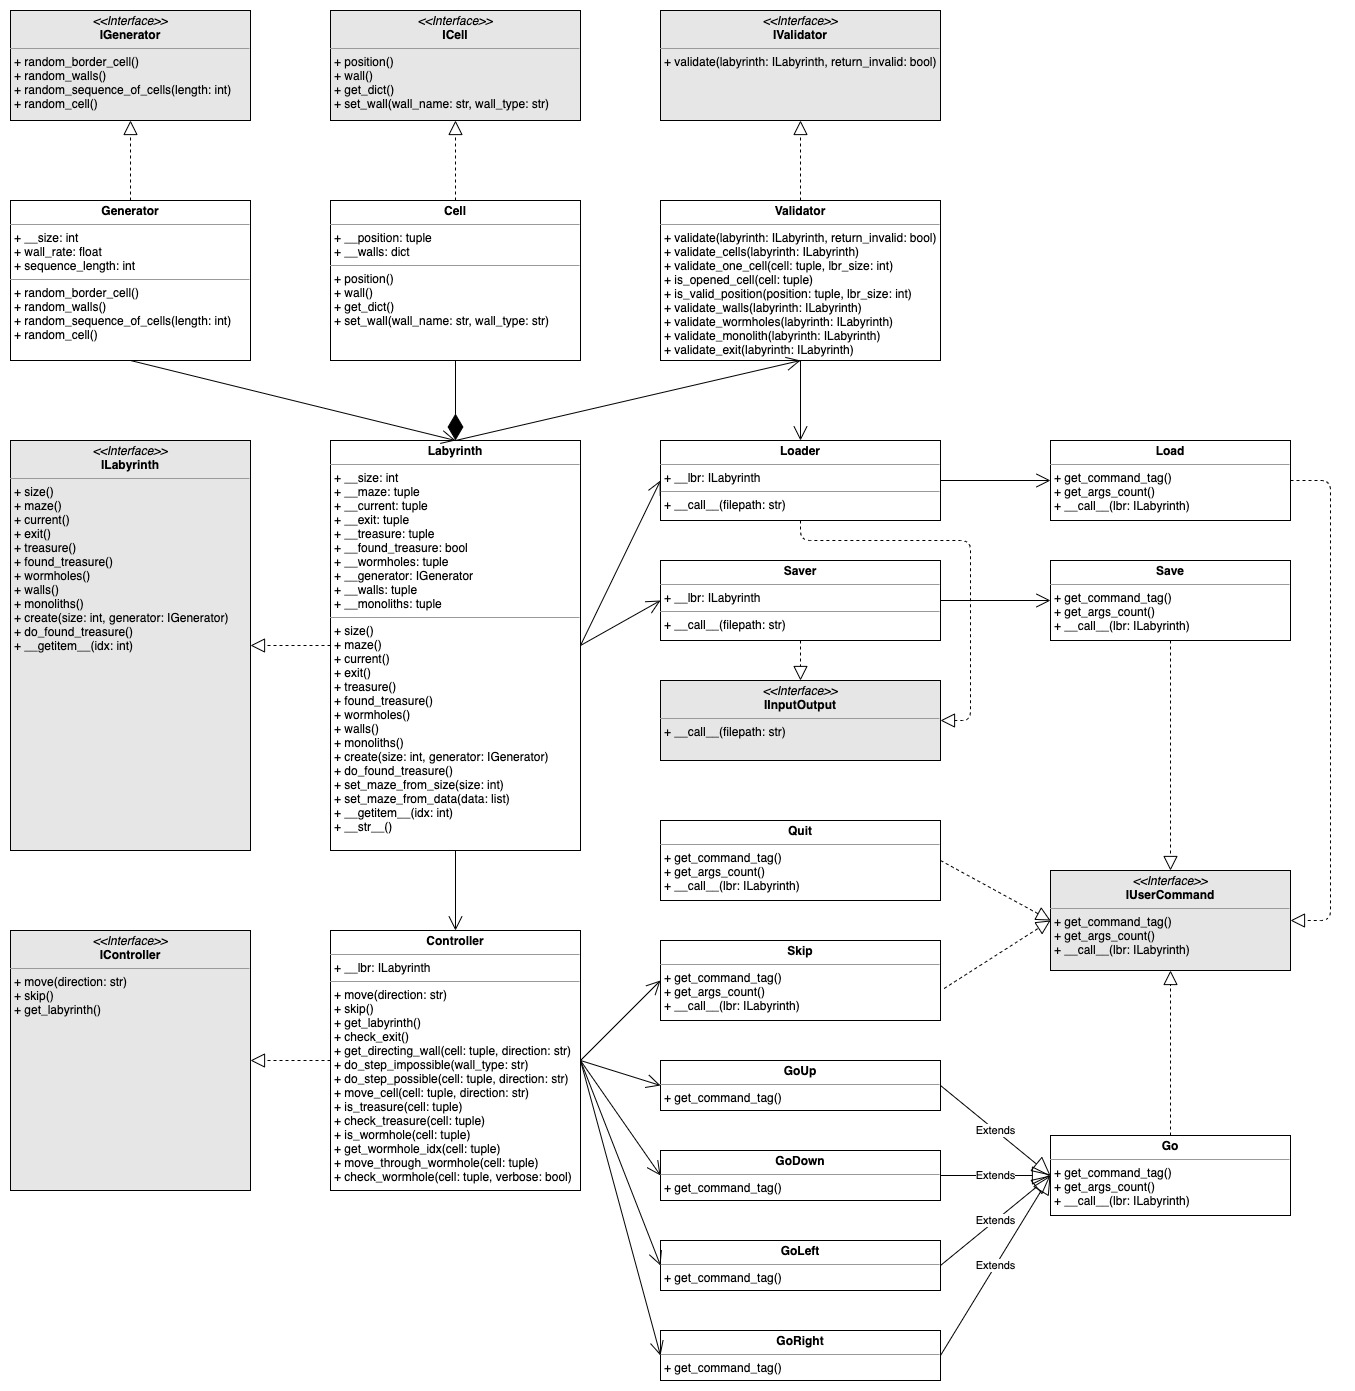
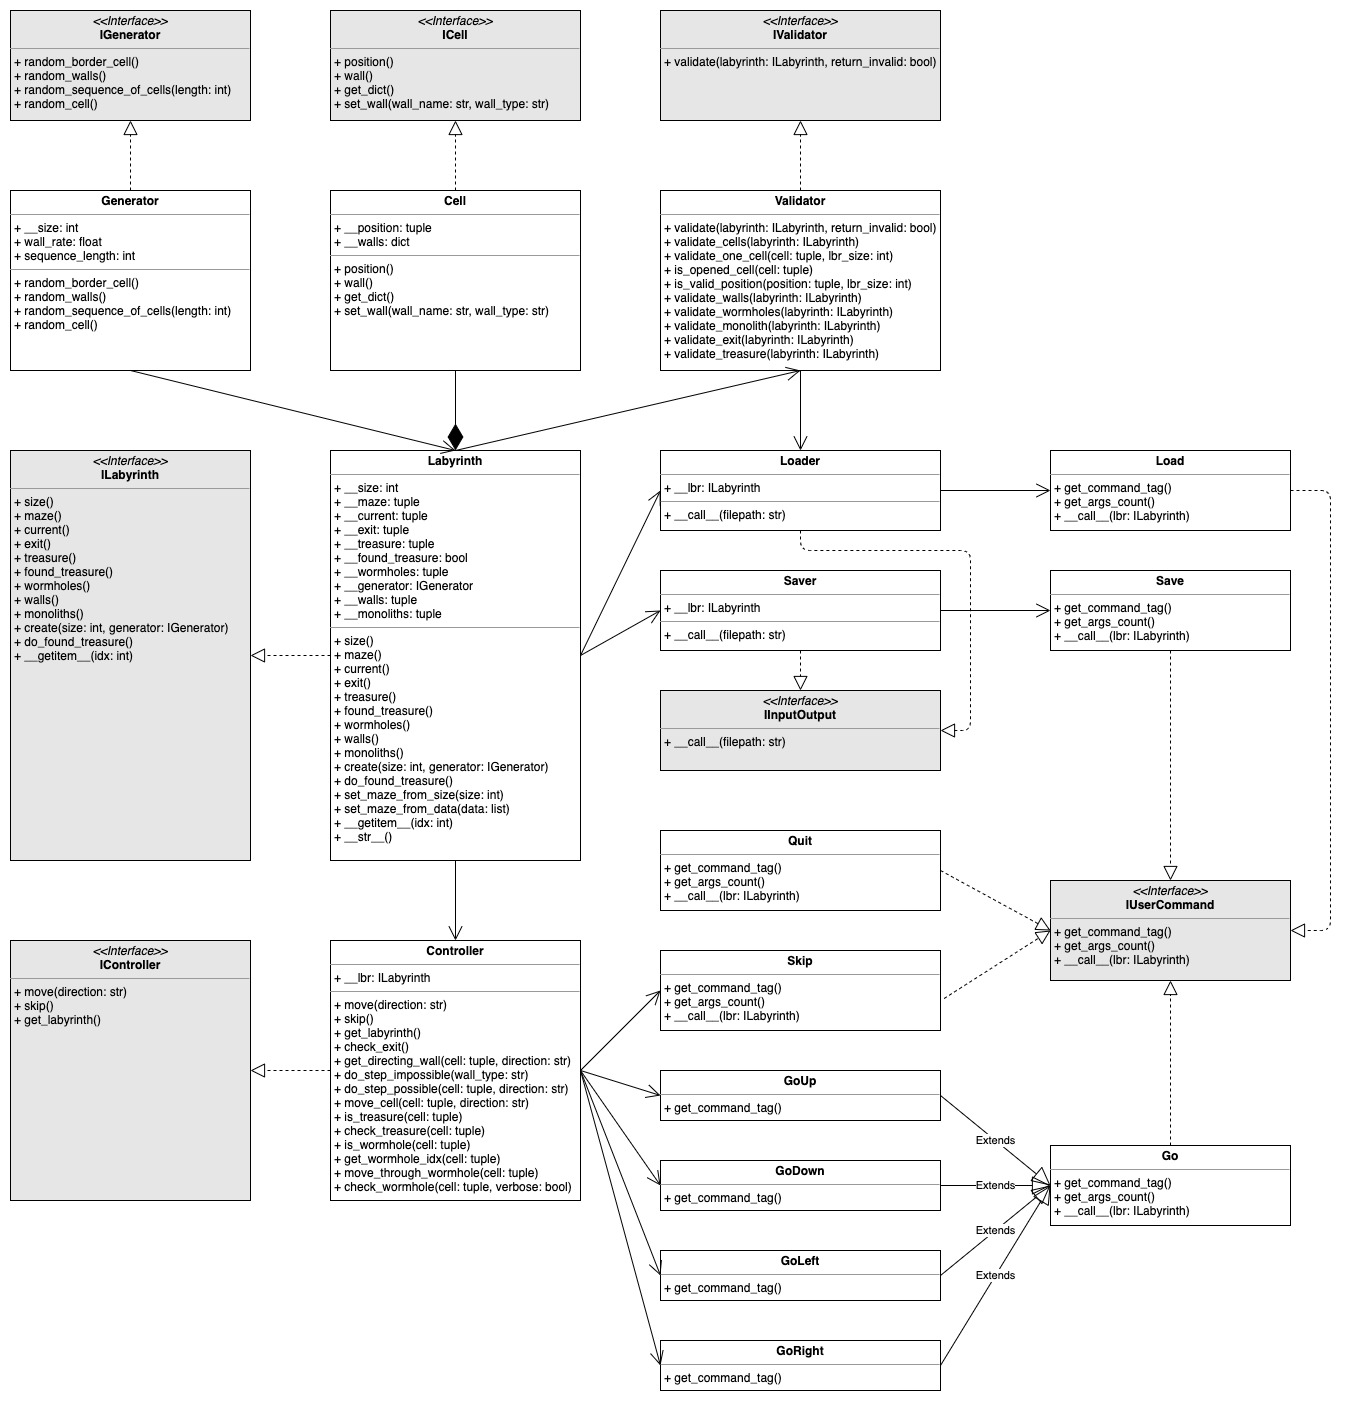
add validate_treasure() to Validator

diff --git a/Labyrinth/impl/validator.py b/Labyrinth/impl/validator.py
@@ -10,9 +10,7 @@ class Validator(IValidator):
             'wormholes': self.validate_wormholes(labyrinth),
             'monolith': self.validate_monolith(labyrinth),
             'exit': self.validate_exit(labyrinth),
-            'treasure': self.is_valid_position(
-                position=labyrinth.treasure,
-                lbr_size=labyrinth.size),
+            'treasure': self.validate_treasure(labyrinth),
             'current': self.is_valid_position(
                 position=labyrinth.current,
                 lbr_size=labyrinth.size)
@@ -93,4 +91,11 @@ class Validator(IValidator):
                 if 'exit' in cell_wall_list:
                     exit_count += 1
         return exit_count == 1
+
+    def validate_treasure(self, labyrinth: ILabyrinth):
+        treasure = labyrinth.treasure
+        if not treasure: return True
+        is_valid_treasure = self.is_valid_position(treasure, labyrinth.size)
+        return is_valid_treasure
+
         
